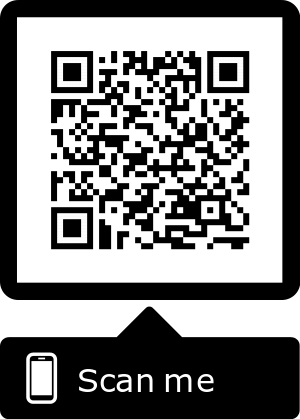
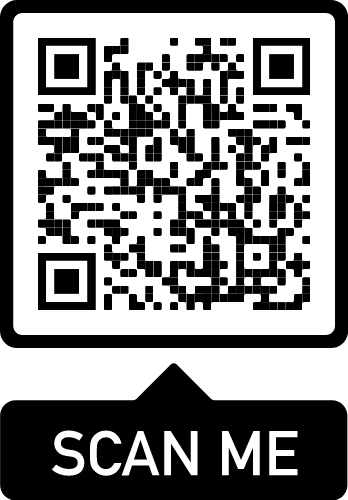
Update slide contact

diff --git a/ts-expressivity/index.html b/ts-expressivity/index.html
@@ -42,7 +42,7 @@
 
         <section class="no-deco">
           <img src="imgs/qr.png" style="background: none" /><br/>
-          <a href="https://bit.ly/2Ub87Kj">https://bit.ly/2Ub87Kj</a>
+          <a href="https://bit.ly/3CI6WIw">https://bit.ly/3CI6WIw</a>
           <p></p>
         </section>
 
